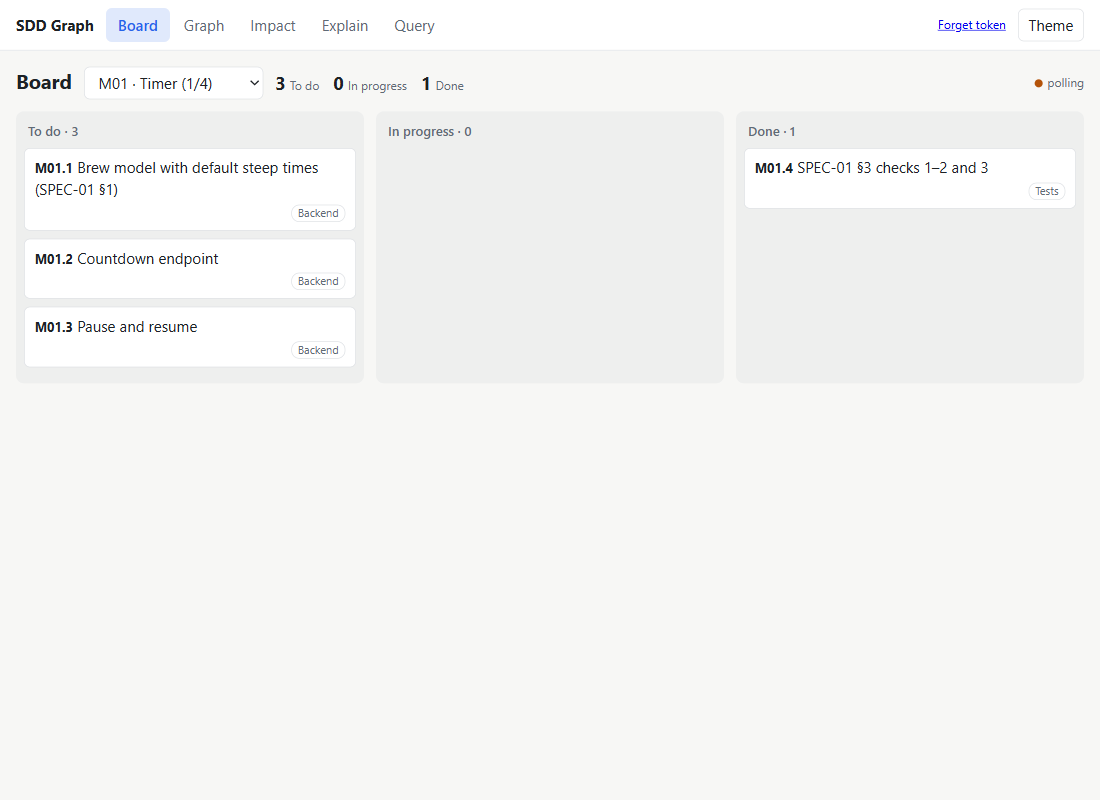
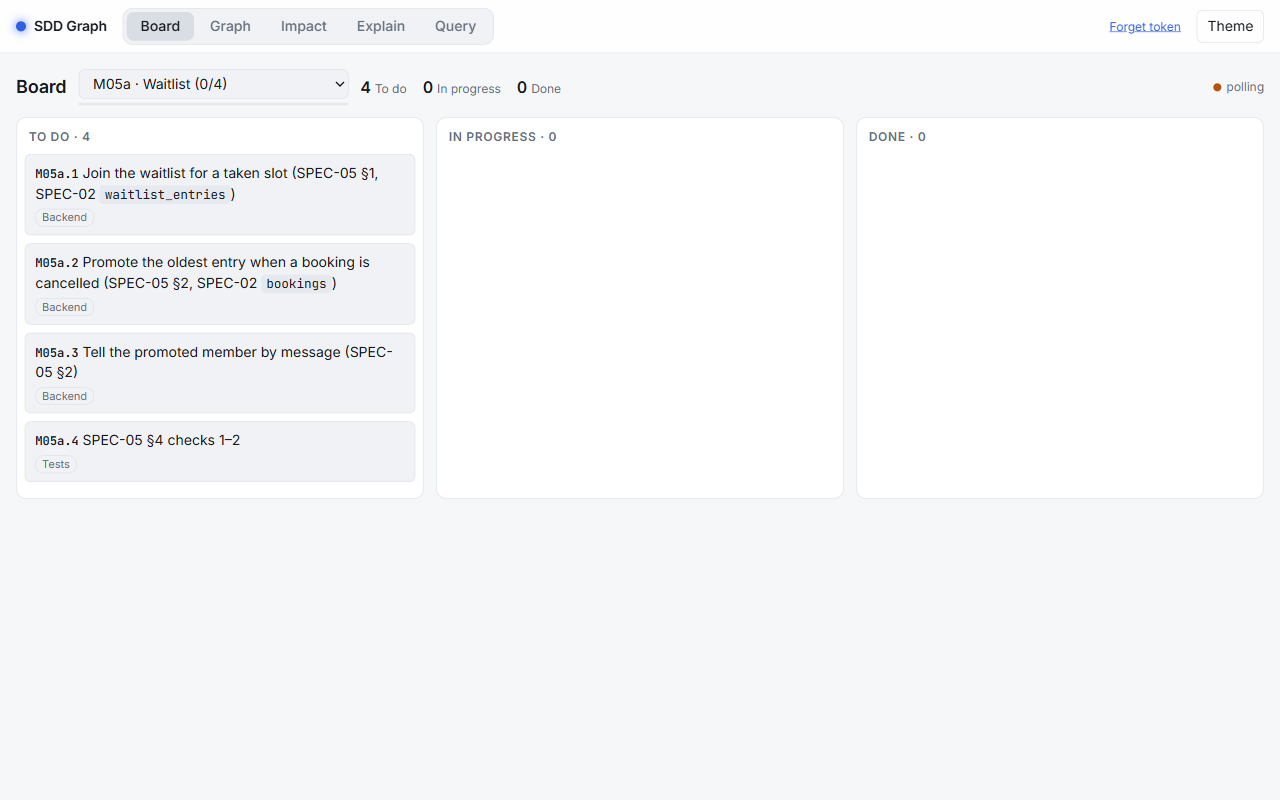
docs: retake screenshots and update manuals for the new dashboard [M09.8]

diff --git a/docs/manuals/02-quick-start.md b/docs/manuals/02-quick-start.md
@@ -28,7 +28,7 @@ What the container does: it runs `sdd demo serve`, which takes a fresh copy of t
 
 The dashboard opens on the **Board** tab.
 
-![The Board](images/board.png)
+![The Board](images/board-start.png)
 
 **You should see:**
 - A milestone picker with 8 milestones. M01, M02, M03a, M03b and M04 show full counts (`4/4`, `3/3`); M05a, M05b and M06 are at `0/…`.
@@ -41,15 +41,24 @@ On the live demo, cards move by themselves: simulated agents `sonnet-1` to `sonn
 
 ## Step 3: the Graph
 
-Click **Graph**.
+Click **Graph**. It opens in 3D on the whole graph.
 
-![The Graph tab](images/graph-milestone.png)
+![The Graph tab in 3D](images/graph-3d.png)
 
-**You should see** the current milestone, its tasks (green), the spec sections it reads (light blue) and related milestones (purple). Then:
+**You should see** every node of the sample as a sphere, coloured by label and sized by how many links it has: tasks (teal), spec sections (light blue), milestones (purple), files (grey), commits (yellow), tables and columns (green) and so on. The layout moves for a second or two and then settles. Then:
+- **Drag** to orbit, **scroll** to zoom. The view turns slowly until you touch it.
+- **Hover** a node to show its label and highlight its links. The busiest nodes always carry a label.
 - **Click** a node to see all its properties in the side panel. For a milestone you'll see `goal`, `acceptance`, `model` and the raw header.
-- **Double-click** a node to expand its neighbours.
-- Use the label checkboxes to hide labels, the search box to find a node by ID or title, and **Presets** → `schema` to see every label and relationship type with counts (the meta-graph).
+- **Double-click** a node (double-tap on a phone) to fly to it and expand its neighbours.
+- Use the label checkboxes to hide labels and the search box to fly to a node by ID or title.
+- **Presets** are ready-made views. `schema` shows every label and relationship type with counts (the meta-graph) and opens in 2D. The others (`milestone`, `impact`, `explain`, `lineage`, `feature`) take a value: pick one and a searchable list of valid IDs opens under the box. Type to narrow it, then press Enter or click an entry.
 - **Reset** returns to the start view.
+
+![Picking a milestone from the Presets list](images/graph-presets.png)
+
+Press **2D** for the flat view: the same graph, laid out so that nodes keep apart, with labels on the busiest nodes, on hover and on selection. It is also what you get when the browser has no WebGL (the **3D** button is then disabled).
+
+![The Graph tab in 2D](images/graph-2d.png)
 
 ## Step 4: one Impact query
 

diff --git a/docs/manuals/01-introduction.md b/docs/manuals/01-introduction.md
@@ -26,6 +26,9 @@ SDD Graph is a small Python daemon that runs next to your repo. It reads your sp
 ![The Impact view for the bookings table](images/impact-bookings.png)
 *Impact for the `bookings` table: every spec, section, file, task, deviation, test and commit it reaches, each with the chain of links that connects it.*
 
+![The Graph tab in 3D: every node of the sample, coloured by label](images/graph-3d.png)
+*The Graph tab opens in 3D on the whole graph; a toggle switches to a flat 2D view.*
+
 ## Measured results
 
 `sdd bench` compares the graph with the Markdown workflow, and you can reproduce the numbers ([full results](../../bench/results/2026-11-22.md)):
